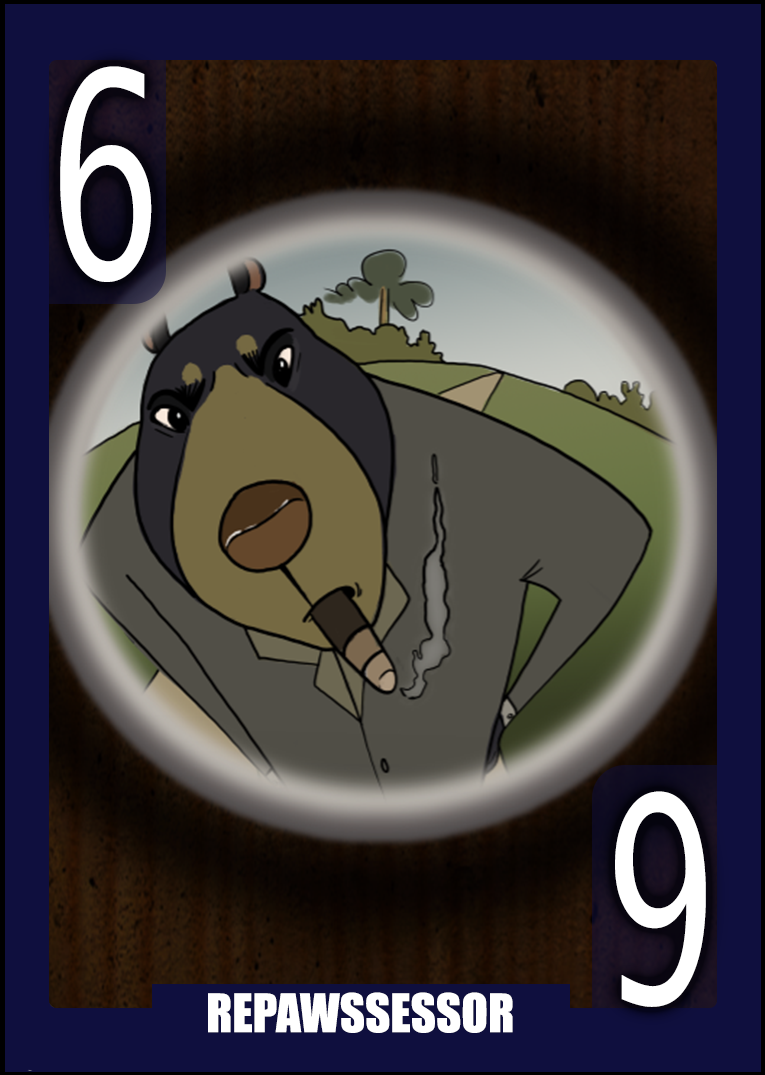
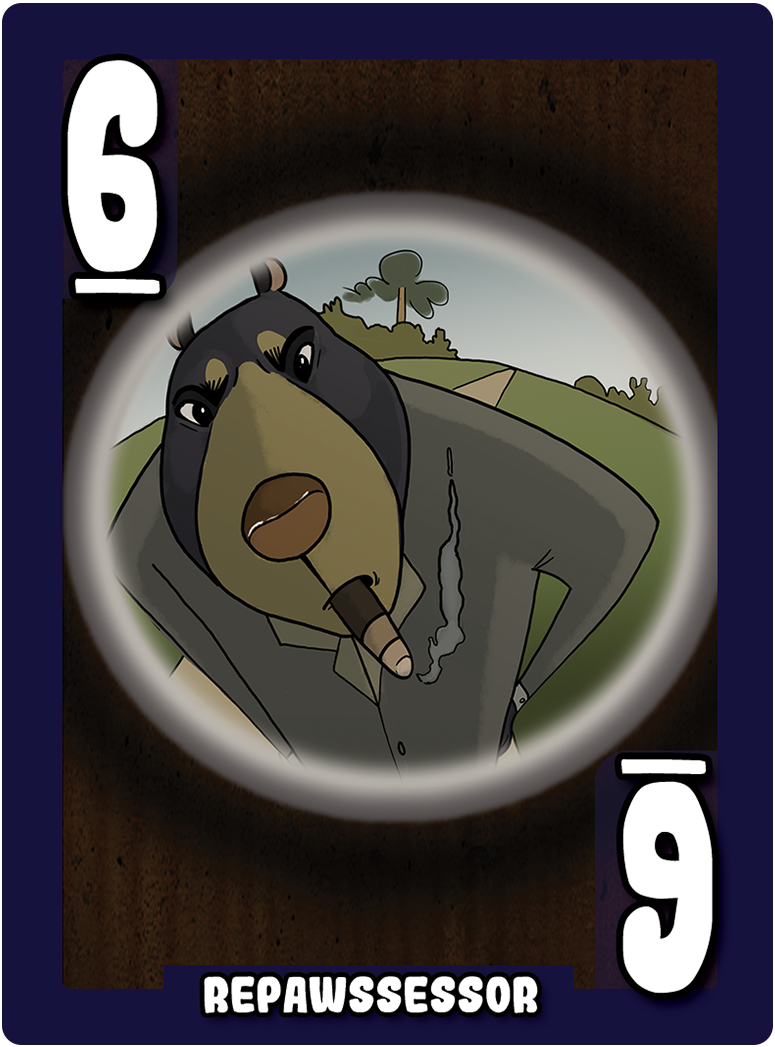
Play Redesign: Add basic board visuals and move indicators
- Use before and after to modify squares on cells
- Remove highlight section and modify click listener to event delegate
- Use new card images
- Use flipped status to decide which background color goes on which end zone
- Add new font and modify font variable

diff --git a/app/assets/stylesheets/board.scss b/app/assets/stylesheets/board.scss
@@ -1,36 +1,78 @@
+@import 'variables';
+
+@mixin beforeSquare {
+  position: absolute;
+  top: 10%;
+  bottom: 10%;
+  left: 5%;
+  right: 5%;
+  content: '';
+}
+
 .board {
-  width: 660px;
+  width: 45vw;
   min-width: 350px;
-  flex-shrink: 1;
-  height:100%;
+  flex-shrink: 0;
+  height: 100%;
   max-height: 65rem;
-  border: 1px solid black;
-  display:flex;
+  // border: 1px solid black;
+  display: flex;
   flex-direction: column;
   align-items: stretch;
 }
 
 .board__row {
-  border: 1px solid black;
+  // border: 1px solid black;
   flex-basis:20%;
   display: flex;
   flex-direction:row;
   flex-wrap: nowrap;
   align-items: stretch;
   justify-content: space-around;
+
+  &--country {
+    background-color: $countryPlayerColor;
+  }
+  &--city {
+    background-color: $cityPlayerColor;
+  }
+  &--odd {
+    .board__cell:nth-of-type(2n)::before {
+      background-color: $cellLight;
+    }
+    .board__cell:nth-of-type(2n + 1)::before {
+      background-color: $cellDark;
+    }
+  }
+  &--even {
+    .board__cell:nth-of-type(2n + 1)::before {
+      background-color: $cellLight;
+    }
+    .board__cell:nth-of-type(2n)::before {
+      background-color: $cellDark;
+    }
+  }
 }
 
-.board__cell{
-  display: inline-block;
+.board__cell {
+  display: inline-flex;
+  align-items: center;
   position: relative;
   flex-basis: 33%;
-  border-right: 1px solid black;
-  border-left: 1px solid black;
+
+  &::before {
+    @include beforeSquare;
+  }
+  &--highlighted::after {
+    @include beforeSquare;
+    border: .5rem solid white;
+    box-shadow: 0 0 4rem #828080, inset 0 0 3rem;
+  }
 }
 
 @for $i from 0 through 15 {
   .stack-#{$i} {
-    z-index: #{$i};
+    z-index: #{1 + $i};
     @if $i < 3 {
       right: #{$i}0%;
     }
@@ -38,24 +80,11 @@
 }
 
 .card {
-  height: 100%;
+  height: 95%;
   position: absolute;
-  border: 1px solid gray;
+  // border: 1px solid gray;
   box-sizing: border-box;
-  border-radius: 5px;
-}
-
-.board__highlight {
-  height: 100%;
-  width: 100%;
-  background-color: green;
-  position: absolute;
-  opacity: 0.33;
-  z-index: 11;
-
-  &:hover {
-    background-color: blue;
-  }
+  // border-radius: 5px;
 }
 
 .game__cancel-button {

diff --git a/app/javascript/packs/Components/Game.jsx b/app/javascript/packs/Components/Game.jsx
@@ -1,5 +1,4 @@
 import React, { Component } from 'react';
-import Card from './Card';
 import Cell from './Cell';
 import PlayerIcons from './PlayerIcons';
 import CellWindow from './CellWindow';
@@ -299,18 +298,30 @@ class Game extends Component {
     this.setState({board, movement: {active: true, startingLocation: [row, col]}});
   }
 
+  generateRowModifier(index, isFlipped) {
+    const rowParity = `board__row--${index % 2 ? 'even' : 'odd'}`;
+    if (index === 0  && isFlipped || index === 4 && !isFlipped) {
+      return `${rowParity} board__row--country`;
+    } else if (index === 0  && !isFlipped || index === 4 && isFlipped) {
+      return `${rowParity} board__row--city`;
+    } else {
+      return rowParity;
+    }
+  }
+
   renderGameBoard () {
     let gameContents = <h2>Waiting for your opponent to connect...</h2>;
     if (this.state.pubNubError) {
       gameContents = <h2>A connection error has occured. Please check your internet connection and reload the page.</h2>;
     } else if (this.state.isOpponentConnected) {
-      const flip = this.state.isFlippedBoard;
-      const board = flip ? this.flippedBoard() : this.state.board;
+      const isFlipped = this.state.isFlippedBoard;
+      const board = isFlipped ? this.flippedBoard() : this.state.board;
       gameContents = board.map((row, rowIndex) => {
-        const rowIdx = flip ? (4 - rowIndex) : rowIndex;
-        return <div key={`row${rowIdx}`} className="board__row">
+        const rowIdx = isFlipped ? (4 - rowIndex) : rowIndex;
+        const modifier = this.generateRowModifier(rowIndex, isFlipped)
+        return <div key={`row${rowIdx}`} className={`board__row ${modifier}`}>
           {row.map((cell, colIndex) => {
-            const col = flip ? (2 - colIndex) : colIndex;
+            const col = isFlipped ? (2 - colIndex) : colIndex;
             return  <Cell
                       key={`column${rowIdx}${col}`}
                       cards={cell.cards}

diff --git a/app/javascript/packs/Components/Cell.jsx b/app/javascript/packs/Components/Cell.jsx
@@ -9,6 +9,7 @@ class Cell extends Component {
   }
 
   highlightClick () {
+    this.props.showStack();
     if(this.props.confirmMove) {
       if (window.confirm('Move to the highlighted square?')) {
         this.props.moveCard();
@@ -21,8 +22,8 @@ class Cell extends Component {
   render() {
     return(
       <div
-        className="board__cell"
-        onClick={this.props.showStack}
+        className={`board__cell ${this.props.highlighted && 'board__cell--highlighted'}`}
+        onClick={this.props.highlighted ? this.highlightClick : this.props.showStack}
       >
         {this.props.cards.map((card, idx) => {
           return  <Card
@@ -38,10 +39,6 @@ class Cell extends Component {
                     isSmuggled={card.isSmuggled}
                   />
         })}
-        {this.props.highlighted && <div
-          className="board__highlight"
-          onClick={this.highlightClick}
-          ></div>}
       </div>
     );
   }

diff --git a/app/assets/stylesheets/variables.scss b/app/assets/stylesheets/variables.scss
@@ -4,6 +4,9 @@ $cityColor: #e67c42;
 $cityPlayerColor: #0b153d;
 $countryPlayerColor: #eeb166;
 
+$cellDark: #b4b4b4;
+$cellLight: #e5e5e5;
+
 @font-face {
   font-family: 'gogono_cocoa_mochi';
   src: url('gomarice_gogono_cocoa_mochi.eot');
@@ -12,10 +15,18 @@ $countryPlayerColor: #eeb166;
   font-style: normal;
 }
 
-$font: gogono_cocoa_mochi;
+@font-face {
+  font-family: 'myriad_pro_regular';
+  src: url('MYRIADPRO-REGULAR.woff') format('woff');
+  font-weight: normal;
+  font-style: normal;
+}
+
+$font-mochi: gogono_cocoa_mochi;
+$font-myriad: myriad_pro_regular;
 
 @mixin descriptive-text ($large) {
-  font-family: $font;
+  font-family: $font-mochi;
   color: white;
   font-size: 2rem;
   @if $large {

diff --git a/app/assets/stylesheets/playerIcons.scss b/app/assets/stylesheets/playerIcons.scss
@@ -15,7 +15,7 @@
 .player-icons {
   width: 30%;
   height: 100%;
-  font-family: $font;
+  font-family: $font-mochi;
 
   &__player-container {
     height: 45%;
